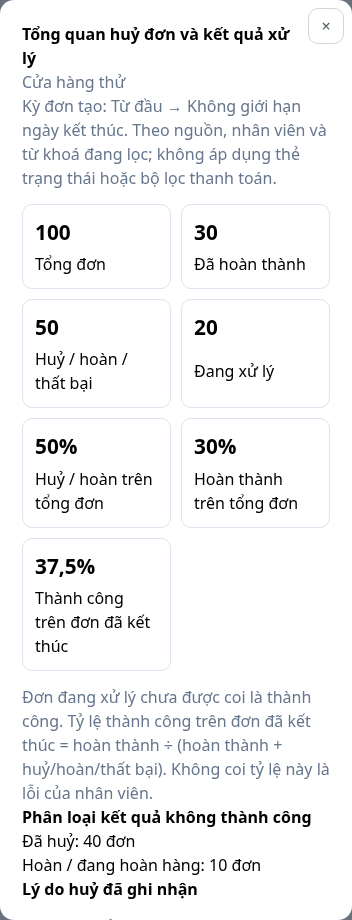
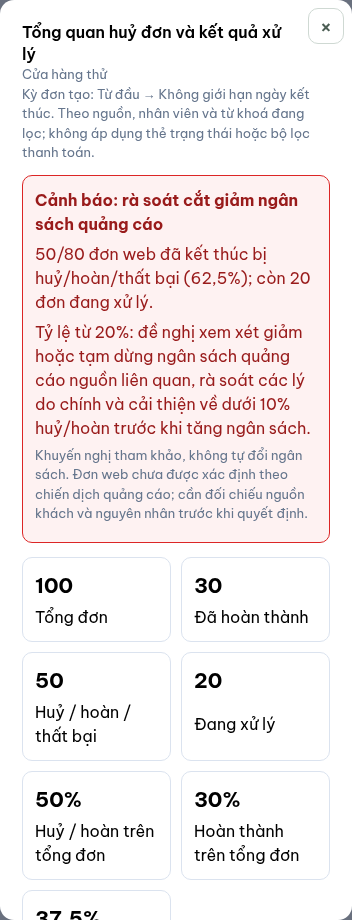
Add website ad-budget warnings, lighter task type and explicit adjustment warehouse selection

diff --git a/trial-ui/style.css b/trial-ui/style.css
@@ -2057,14 +2057,14 @@ tr.care-overdue td:first-child { box-shadow: inset 3px 0 0 var(--red); }
 #view-tasks .task-sync { font-size: var(--text-caption); } #view-tasks .task-refresh { align-self: center; width: 30px; height: 30px; }
 #view-tasks .task-top-actions { display: flex; gap: 8px; } #view-tasks .task-top-actions kbd { margin-left: 4px; background: #ffffff33; color: inherit; border-color: #ffffff66; }
 #view-tasks .task-tabs-row { display: flex; gap: 4px; border-bottom: 1px solid var(--line); margin-bottom: 14px; overflow-x: auto; scrollbar-width: none; }
-#view-tasks .task-tab { border: 0; background: none; font: inherit; font-weight: 600; color: #4b5870; padding: 10px 12px; border-bottom: 2px solid transparent; margin-bottom: -1px; cursor: pointer; white-space: nowrap; }
+#view-tasks .task-tab { border: 0; background: none; font: inherit; font-weight: 500; color: #4b5870; padding: 10px 12px; border-bottom: 2px solid transparent; margin-bottom: -1px; cursor: pointer; white-space: nowrap; }
 #view-tasks .task-tab b { display: inline-grid; place-items: center; min-width: 20px; padding: 0 6px; margin-left: 4px; border-radius: 999px; background: #eef1f6; color: #3c4a63; font-size: var(--text-caption); }
-#view-tasks .task-tab[aria-selected="true"] { color: var(--green); border-bottom-color: var(--green); } #view-tasks .task-tab[aria-selected="true"] b { background: var(--green-50); color: var(--green); }
+#view-tasks .task-tab[aria-selected="true"] { font-weight: 600; color: var(--green); border-bottom-color: var(--green); } #view-tasks .task-tab[aria-selected="true"] b { background: var(--green-50); color: var(--green); }
 #view-tasks .task-tab-approve b.tab-count { background: var(--red); color: #fff; }
 #view-tasks .task-due-cards { display: grid; grid-template-columns: repeat(4, minmax(0, 1fr)); gap: 10px; margin-bottom: 12px; }
 #view-tasks .task-due-card { position: relative; display: grid; gap: 1px; text-align: left; font: inherit; color: inherit; cursor: pointer; background: var(--surface); border: 1px solid var(--line); border-radius: 12px; padding: 10px 14px 10px 22px; box-shadow: var(--shadow); }
 #view-tasks .task-due-card::before { content: ''; position: absolute; left: 10px; top: 12px; bottom: 12px; width: 4px; border-radius: 4px; background: #c3ccd9; }
-#view-tasks .task-due-card strong { font-size: var(--text-heading); line-height: 1.1; } #view-tasks .task-due-card span { font-size: var(--text-small); color: #4b5870; } #view-tasks .task-due-card small { font-size: var(--text-caption); color: var(--muted); }
+#view-tasks .task-due-card strong { font-weight: 600; font-size: var(--text-heading); line-height: 1.1; } #view-tasks .task-due-card span { font-size: var(--text-small); color: #4b5870; } #view-tasks .task-due-card small { font-size: var(--text-caption); color: var(--muted); }
 #view-tasks .d-overdue::before { background: var(--red); } #view-tasks .d-overdue strong { color: var(--red); }
 #view-tasks .d-today::before { background: #e08a00; } #view-tasks .d-today strong { color: var(--amber); }
 #view-tasks .d-week::before { background: #3a7bd5; } #view-tasks .d-none::before { background: #c3ccd9; }
@@ -2084,26 +2084,27 @@ tr.care-overdue td:first-child { box-shadow: inset 3px 0 0 var(--red); }
 #view-tasks .task-board { background: none; border: 0; box-shadow: none; padding: 0; overflow: visible; }
 #view-tasks .task-list { display: grid; gap: 8px; }
 #view-tasks .task-group { margin-top: 8px; } #view-tasks .task-group:first-child { margin-top: 0; }
-#view-tasks .task-group-btn { display: flex; align-items: center; gap: 8px; border: 0; background: none; padding: 4px 2px; font: inherit; font-weight: 700; font-size: var(--text-label); color: var(--ink); cursor: pointer; }
+#view-tasks .task-group-btn { display: flex; align-items: center; gap: 8px; border: 0; background: none; padding: 4px 2px; font: inherit; font-weight: 500; font-size: var(--text-label); color: var(--ink); cursor: pointer; }
 #view-tasks .task-group-caret { color: var(--muted); transition: transform .12s; } #view-tasks .task-group-btn[aria-expanded="false"] .task-group-caret { transform: rotate(-90deg); }
 #view-tasks .task-group-n { background: #e4e8ef; border-radius: 10px; padding: 0 8px; font-size: var(--text-caption); color: #3c4a63; }
 #view-tasks .task-group-late { background: #fdecee; color: #b4232c; border-radius: 10px; padding: 0 8px; font-size: var(--text-caption); }
 #view-tasks .g-overdue .task-group-btn { color: var(--red); } #view-tasks .g-today .task-group-btn { color: var(--amber); }
-#view-tasks .task-row { display: grid; grid-template-columns: 34px minmax(0, 1fr) 170px 100px 104px 104px; gap: 10px; align-items: center; background: var(--surface); border: 1px solid var(--line); border-left: 4px solid transparent; border-radius: 10px; padding: 10px 12px 10px 8px; cursor: pointer; box-shadow: var(--shadow); }
+#view-tasks .task-row { font-size: var(--text-label); line-height: 1.5; display: grid; grid-template-columns: 34px minmax(0, 1fr) 170px 100px 104px 104px; gap: 10px; align-items: center; background: var(--surface); border: 1px solid var(--line); border-left: 4px solid transparent; border-radius: 10px; padding: 10px 12px 10px 8px; cursor: pointer; box-shadow: var(--shadow); }
 #view-tasks .task-row:hover { border-color: #c9d3e0; }
 #view-tasks .task-row.prio-high { border-left-color: #e08a00; } #view-tasks .task-row.prio-urgent, #view-tasks .task-row.is-late { border-left-color: var(--red); }
 #view-tasks .task-row.is-selected { border-color: var(--green); box-shadow: 0 0 0 1px var(--green); }
 #view-tasks .task-row.is-done { opacity: .7; } #view-tasks .task-row.is-done .task-title { text-decoration: line-through; color: var(--muted); }
 #view-tasks .task-check { display: grid; place-items: center; } #view-tasks .task-check input { width: 18px; height: 18px; accent-color: var(--green); cursor: pointer; }
-#view-tasks .task-title { font-weight: 650; color: var(--ink); overflow-wrap: anywhere; }
+#view-tasks .task-title { font-weight: 500; color: var(--ink); overflow-wrap: anywhere; }
 #view-tasks .task-meta { display: flex; flex-wrap: wrap; gap: 5px; margin-top: 4px; font-size: var(--text-caption); align-items: center; }
 #view-tasks .tag { display: inline-flex; align-items: center; padding: 1px 7px; border-radius: 6px; background: #f1f3f7; color: #4b5870; font-size: var(--text-caption); max-width: 100%; }
 #view-tasks .tag.dashed { background: #fff; border: 1px dashed #b9c3d1; }
 #view-tasks .tag.task-desc { max-width: 420px; overflow: hidden; text-overflow: ellipsis; white-space: nowrap; display: inline-block; }
+#view-tasks .task-people b, #view-tasks .due-date b, #view-tasks .task-meta .pill { font-weight: 500; }
 #view-tasks .task-people { display: grid; gap: 1px; line-height: 1.25; min-width: 0; } #view-tasks .task-people small { color: var(--muted); font-size: var(--text-caption); } #view-tasks .task-people .claim-btn { justify-self: start; margin-top: 4px; }
 #view-tasks .due-date { display: grid; line-height: 1.2; } #view-tasks .due-date small { font-size: var(--text-caption); color: var(--muted); }
 #view-tasks .due-date.danger b, #view-tasks .due-date.danger small { color: var(--red); } #view-tasks .due-date.warn b, #view-tasks .due-date.warn small { color: var(--amber); }
-#view-tasks .task-state { border: 1px solid var(--line-strong); background: #fff; border-radius: 8px; padding: 5px 10px; font: inherit; font-size: var(--text-small); font-weight: 600; color: #3c4a63; cursor: pointer; white-space: nowrap; }
+#view-tasks .task-state { border: 1px solid var(--line-strong); background: #fff; border-radius: 8px; padding: 5px 10px; font: inherit; font-size: var(--text-small); font-weight: 400; color: #3c4a63; cursor: pointer; white-space: nowrap; }
 #view-tasks .task-state.st-in_progress { border-color: var(--blue); color: var(--blue); background: var(--blue-50); }
 #view-tasks .pill.src.sales { background: #e9eefb; color: #1f3f8a; } #view-tasks .pill.src.stock { background: #e7f6ef; color: #0e6b4c; }
 #view-tasks .pill.src.acct { background: #f1ebfb; color: #6b3fb4; } #view-tasks .pill.src.debt { background: #fff1e0; color: #a35400; }
@@ -2135,6 +2136,7 @@ tr.care-overdue td:first-child { box-shadow: inset 3px 0 0 var(--red); }
 }
 /* Điện thoại: mỗi việc một thẻ – Việc, Hạn, Trạng thái; bấm mở chi tiết toàn màn hình. */
 @media (max-width: 700px) {
+  #view-tasks .task-title { font-size: var(--text-body); }
   #view-tasks .task-due-cards { grid-template-columns: repeat(2, minmax(0, 1fr)); gap: 8px; } #view-tasks .task-due-card { padding: 8px 10px 8px 20px; } #view-tasks .task-due-card small { display: none; }
   #view-tasks .task-filterbar select { flex: 1 1 45%; } #view-tasks .task-filterbar .search-box { flex-basis: 100%; } #view-tasks .task-seg { flex: 1 1 100%; } #view-tasks .task-seg button { flex: 1; }
   #view-tasks .task-row { grid-template-columns: 28px minmax(0, 1fr) auto; grid-template-areas: "c m m" "c d s"; row-gap: 6px; }
@@ -2206,6 +2208,9 @@ a.is-opening::after, tr.is-opening > td:last-child::after, li.is-opening::after,
 .ledger-table th.num, .ledger-table td.num { text-align: right; white-space: nowrap; font-variant-numeric: tabular-nums; }
 .ledger-table td { padding: 8px 12px; vertical-align: top; }
 .ledger-table td.nowrap { white-space: nowrap; }
+.ledger-table .ledger-in { color: var(--green); }
+.ledger-table .ledger-out { color: var(--red); }
+.ledger-table .ledger-balance { color: #0369a1; }
 .ledger-total td { background: var(--surface-2); font-weight: 700; }
 .ledger-ref a, .ledger-item a { font-weight: 600; }
 .ledger-ref, .ledger-item { min-width: 190px; }

diff --git a/trial-ui/pos.js b/trial-ui/pos.js
@@ -516,6 +516,17 @@ export function initPos({ api, root, toast, user, confirmBox, go, onCloseShift, 
     st.orderRegisterId = d.registerId;
     renderOrderBoard();
   }
+  function advertisingNotice(risk) {
+    if(!risk)return null;
+    const box=el('section','pos-ad-risk '+risk.level),high=['budget','improve'].includes(risk.level);
+    box.setAttribute('role',high?'alert':'status');
+    const rate=risk.rate==null?'—':new Intl.NumberFormat('vi-VN',{maximumFractionDigits:2}).format(risk.rate)+'%';
+    const title=risk.level==='budget'?'Cảnh báo: rà soát cắt giảm ngân sách quảng cáo':risk.level==='improve'?'Cần cải thiện tỷ lệ đơn web':risk.level==='insufficient'?'Chưa đủ mẫu để đánh giá quảng cáo':'Tỷ lệ huỷ / hoàn đơn web dưới ngưỡng cảnh báo';
+    box.append(el('strong','',title),el('p','',`${risk.unsuccessful}/${risk.ended} đơn web đã kết thúc bị huỷ/hoàn/thất bại (${rate}); còn ${risk.pending} đơn đang xử lý.`));
+    const advice=risk.level==='budget'?'Tỷ lệ từ 20%: đề nghị xem xét giảm hoặc tạm dừng ngân sách quảng cáo nguồn liên quan, rà soát các lý do chính và cải thiện về dưới 10% huỷ/hoàn trước khi tăng ngân sách.':risk.level==='improve'?'Tỷ lệ từ 10%: yêu cầu rà soát lý do huỷ, chất lượng khách và khâu xử lý/giao hàng để đưa tỷ lệ huỷ/hoàn về dưới 10%.':risk.level==='insufficient'?'Cần ít nhất 30 đơn web đã kết thúc trong kỳ mới áp ngưỡng cảnh báo.':'Tiếp tục theo dõi; ngưỡng cần cải thiện là 10%, ngưỡng rà soát ngân sách là 20% khi có ít nhất 30 đơn web đã kết thúc.';
+    box.append(el('p','',advice),el('p','pos-note','Khuyến nghị tham khảo, không tự đổi ngân sách. Đơn web chưa được xác định theo chiến dịch quảng cáo; cần đối chiếu nguồn khách và nguyên nhân trước khi quyết định.'));
+    return box;
+  }
   function showCancellationAnalytics(d) {
     const a = d.analytics;
     if (!a) return;
@@ -538,6 +549,7 @@ export function initPos({ api, root, toast, user, confirmBox, go, onCloseShift, 
       item.append(el('strong', '', value), el('span', '', label));
       grid.append(item);
     }
+    const adRisk=advertisingNotice(a.advertising);if(adRisk)m.body.append(adRisk);
     m.body.append(grid, el('p', 'pos-note', 'Đơn đang xử lý chưa được coi là thành công. Tỷ lệ thành công trên đơn đã kết thúc = hoàn thành ÷ (hoàn thành + huỷ/hoàn/thất bại). Không coi tỷ lệ này là lỗi của nhân viên.'));
     const kindNames = { cancelled: 'Đã huỷ', returned: 'Hoàn / đang hoàn hàng', refunded: 'Đã hoàn tiền', failed: 'Thất bại / mất / hỏng hàng' };
     m.body.append(el('h3', '', 'Phân loại kết quả không thành công'));
@@ -555,7 +567,7 @@ export function initPos({ api, root, toast, user, confirmBox, go, onCloseShift, 
     const wrap = el('div', 'table-wrap'); wrap.append(table); m.body.append(wrap);
     if (!a.unsuccessful) m.body.append(el('p', 'pos-note', 'Chưa có đơn huỷ / hoàn trong kỳ này.'));
     m.body.append(el('p', 'pos-note', `${a.missingReasons} đơn chưa ghi nhận lý do. Lý do đơn web lấy từ nhật ký huỷ tại CRM nếu có. Trạng thái website/GHN không tự suy ra lý do. Đơn web chưa gắn nhân viên bán.`));
-    m.body.append(el('h3', '', 'Ngưỡng cảnh báo tham khảo'), el('p', 'pos-note', 'Chỉ xem xét khi có ít nhất 30 đơn đã kết thúc trong kỳ: tỷ lệ huỷ/hoàn trên đơn đã kết thúc từ 10% cần rà soát, từ 20% cảnh báo cao. Đây là ngưỡng thử nghiệm, chưa phải quy định phạt; phải đối chiếu nguồn đơn, khách hàng, hàng hoá và vận chuyển trước khi quy trách nhiệm.'));
+    m.body.append(el('h3', '', 'Ngưỡng cảnh báo tham khảo'), el('p', 'pos-note', 'Chỉ xem xét quảng cáo khi có ít nhất 30 đơn web đã kết thúc trong kỳ: tỷ lệ huỷ/hoàn trên đơn web đã kết thúc từ 10% cần cải thiện, từ 20% cảnh báo rà soát ngân sách. Đây là ngưỡng thử nghiệm, chưa phải quy định phạt; phải đối chiếu nguồn đơn, khách hàng, hàng hoá và vận chuyển trước khi quy trách nhiệm.'));
     m.show();
   }
   function renderOrderBoard() {
@@ -616,8 +628,9 @@ export function initPos({ api, root, toast, user, confirmBox, go, onCloseShift, 
       if (alert) b.setAttribute('aria-label', `Đơn web: ${n} đơn cần xử lý`);
       cards.append(b);
     }
-    if(d.analytics){const a=d.analytics,pct=a.unsuccessfulRate==null?'—':new Intl.NumberFormat('vi-VN',{maximumFractionDigits:1}).format(a.unsuccessfulRate)+'%';const report=button('','pos-order-count pos-cancellation-report',()=>showCancellationAnalytics(d));report.setAttribute('aria-label','Xem tỷ lệ huỷ đơn và lý do');report.append(el('strong','',pct),el('span','','Tỷ lệ huỷ / hoàn'));cards.append(report);}
+    if(d.analytics){const a=d.analytics,pct=a.successRate==null?'—':new Intl.NumberFormat('vi-VN',{maximumFractionDigits:1}).format(a.successRate)+'%';const report=button('','pos-order-count pos-cancellation-report',()=>showCancellationAnalytics(d));report.setAttribute('aria-label','Xem tỷ lệ hoàn thành và lý do huỷ đơn');report.append(el('strong','',pct),el('span','','Tỷ lệ hoàn thành'));cards.append(report);}
     box.append(cards);
+    const adRisk=advertisingNotice(d.analytics?.advertising);if(adRisk)box.append(adRisk);
     const search = el('input', 'pos-order-search');
     search.type = 'search'; search.placeholder = 'Tìm số đơn, khách hàng, điện thoại, nhân viên…'; search.value = st.orderQuery;
     search.setAttribute('aria-label', 'Tìm đơn hàng cửa hàng');

diff --git a/tests/app/pos-ui.test.ts b/tests/app/pos-ui.test.ts
@@ -1,5 +1,5 @@
 import { test } from 'node:test';
-import {cancellationAnalytics} from '../../src/modules/sales/domain/pos-order-board.ts';
+import {cancellationAnalytics,advertisingCancellationRisk} from '../../src/modules/sales/domain/pos-order-board.ts';
 import assert from 'node:assert/strict';
 import { readFileSync } from 'node:fs';
 // @ts-ignore browser module uses injected DOM only while rendering
@@ -924,7 +924,7 @@ test('POS order board sends source/staff/date/payment filters, renders server to
     const api=async(path:string)=>{
       if(path.startsWith('/pos/options')) return {registers:[{id:'r',name:'Quầy',pricePolicyId:'vat'}],current:null,shifts:[],templates:[],policies:[]};
       if(path.startsWith('/pos/catalog')) return {products:[],nextOffset:null};
-      if(path.startsWith('/pos/orders')) {calls.push(path);return {registerId:'r',registers:[],analytics:cancellationAnalytics([{bucket:'completed'},{bucket:'pending'},{bucket:'cancelled',cancelReason:'<img src=x onerror=alert(1)>'}]),counts:{all:3},orders:[],owners:[{id:'emp',name:'Nhân viên A'}],totals:[{currency:'VND',revenue:123456,paid:100000,outstanding:23456,orders:3,unknownPayment:0}]};}
+      if(path.startsWith('/pos/orders')) {calls.push(path);return {registerId:'r',registers:[],analytics:{...cancellationAnalytics([{bucket:'completed'},{bucket:'pending'},{bucket:'cancelled',cancelReason:'<img src=x onerror=alert(1)>'}]),advertising:advertisingCancellationRisk([{orderSource:'web',bucket:'completed'}])},counts:{all:3},orders:[],owners:[{id:'emp',name:'Nhân viên A'}],totals:[{currency:'VND',revenue:123456,paid:100000,outstanding:23456,orders:3,unknownPayment:0}]};}
       throw Error(path);
     };
     const ui=initPos({root,api,toast(){},user:()=>({id:'emp',name:'NV'}),confirmBox:async()=>true,go(){}});
@@ -938,8 +938,8 @@ test('POS order board sends source/staff/date/payment filters, renders server to
     }
     const q=new URLSearchParams(calls.at(-1)!.split('?')[1]);
     assert.equal(q.get('source'),'cod');assert.equal(q.get('ownerId'),'emp');assert.equal(q.get('from'),'2026-10-01');assert.equal(q.get('to'),'2026-10-21');assert.equal(q.get('payment'),'debt');
-    const before=calls.length;await root.querySelectorAll('button').find(e=>e.attributes['aria-label']==='Xem tỷ lệ huỷ đơn và lý do')!.fire('click');
-    const modal=doc.body.children.at(-1)!;assert.equal(modal.open,true);assert.match(modal.textContent,/33,3%/);assert.match(modal.textContent,/50%/);assert.match(modal.textContent,/<img src=x onerror=alert\(1\)>/);assert.equal(modal.querySelectorAll('img').length,0);assert.match(modal.textContent,/không áp dụng thẻ trạng thái hoặc bộ lọc thanh toán/);assert.equal(calls.length,before,'report opens from the same confirmed data without another request');
+    const before=calls.length;await root.querySelectorAll('button').find(e=>e.attributes['aria-label']==='Xem tỷ lệ hoàn thành và lý do huỷ đơn')!.fire('click');
+    const modal=doc.body.children.at(-1)!;assert.equal(modal.open,true);assert.match(modal.textContent,/Cần ít nhất 30 đơn web/);assert.match(modal.textContent,/33,3%/);assert.match(modal.textContent,/50%/);assert.match(modal.textContent,/<img src=x onerror=alert\(1\)>/);assert.equal(modal.querySelectorAll('img').length,0);assert.match(modal.textContent,/không áp dụng thẻ trạng thái hoặc bộ lọc thanh toán/);assert.equal(calls.length,before,'report opens from the same confirmed data without another request');
     await root.querySelectorAll('button').find(e=>e.textContent==='Xóa bộ lọc')!.fire('click');
     await new Promise(r=>setTimeout(r,0));
     const reset=new URLSearchParams(calls.at(-1)!.split('?')[1]);

diff --git a/tests/app/pos-order-board.test.ts b/tests/app/pos-order-board.test.ts
@@ -5,7 +5,7 @@ import { setup } from '../helpers/pos-fixture.ts';
 import {auditLogs} from '../../src/core/db/schema.ts';
 import {webStoreOrders} from '../../src/modules/sales/pos-schema.ts';
 import { customerPayments, salesOrders } from '../../src/modules/sales/schema.ts';
-import { filterPosOrderBoard, cancellationAnalytics } from '../../src/modules/sales/domain/pos-order-board.ts';
+import { filterPosOrderBoard, cancellationAnalytics, advertisingCancellationRisk } from '../../src/modules/sales/domain/pos-order-board.ts';
 
 test('board totals apply every filter, omit cancellations, and keep currencies separate', () => {
   const row = { id:'a', orderNo:'POS_A', customerName:'Nguyễn An', phone:'09', ownerId:'emp', ownerName:'Nhân viên', sapoOrderCode:null, orderDate:'2026-10-21', bucket:'completed', orderSource:'pos', paymentStatus:'paid', total:100, paid:100, outstanding:0, currency:'VND' };
@@ -87,4 +87,16 @@ test('cancellation metrics use all cohort rows before status/payment/pagination,
  const scope=filterPosOrderBoard([...rows,{...base,id:'older',orderDate:'2026-09-01',bucket:'pending'}],new URLSearchParams(),{analyticsFrom:'2026-10-01'});assert.equal(scope.counts.all,101);assert.equal(scope.analytics.total,100,'old open orders do not dilute the default analytics period');
  assert.equal(filterPosOrderBoard(rows,new URLSearchParams('ownerId=other')).analytics.total,0);assert.equal(cancellationAnalytics([]).unsuccessfulRate,null);assert.equal(cancellationAnalytics([{bucket:'pending'}]).closedSuccessRate,null);
  const split=cancellationAnalytics([{bucket:'cancelled',cancellationKind:'returned'},{bucket:'cancelled',cancellationKind:'refunded'}]);assert.deepEqual(split.kinds,[{kind:'returned',count:1},{kind:'refunded',count:1}]);assert.equal(split.missingReasons,2);
+});
+
+
+test('ad budget warning uses website ended orders only, requires 30 outcomes and has exact 10/20 percent boundaries',()=>{
+ const rows=(ended:number,bad:number,pending=0)=>Array.from({length:ended+pending},(_,i)=>({orderSource:'web',bucket:i<bad?'cancelled':i<ended?'completed':'pending'}));
+ assert.equal(advertisingCancellationRisk(rows(29,29)).level,'insufficient');
+ assert.equal(advertisingCancellationRisk(rows(30,6)).level,'budget');
+ assert.equal(advertisingCancellationRisk(rows(30,3)).level,'improve');
+ assert.equal(advertisingCancellationRisk(rows(30,2)).level,'normal');
+ const pending=advertisingCancellationRisk(rows(30,6,70));assert.equal(pending.rate,20);assert.equal(pending.pending,70);assert.equal(pending.total,100);
+ assert.equal(advertisingCancellationRisk(rows(10000,1996)).level,'improve','do not compare a rounded percentage to the threshold');
+ const mixed=advertisingCancellationRisk([...rows(30,0),...Array.from({length:100},()=>({orderSource:'pos',bucket:'cancelled'}))]);assert.equal(mixed.level,'normal');assert.equal(mixed.total,30);assert.equal(advertisingCancellationRisk([]).rate,null);
 });

diff --git a/trial-ui/stock-ops.js b/trial-ui/stock-ops.js
@@ -281,7 +281,7 @@ const STATUSES = [['', 'Mọi trạng thái'], ['active', 'Đang giao dịch'], 
 const day = iso => iso ? new Date(iso).toLocaleDateString('vi-VN', { day: '2-digit', month: '2-digit', year: 'numeric' }) : '';
 const time = iso => iso ? new Date(iso).toLocaleTimeString('vi-VN', { hour: '2-digit', minute: '2-digit' }) : '';
 const isoDay = d => new Date(d.getTime() - d.getTimezoneOffset() * 60000).toISOString().slice(0, 10);
-const dash = v => v ? num(v) : '-';
+const movementQty = (v, sign, zero = '—') => v ? sign + num(Math.abs(v)) : zero;
 /** Nhãn ô khi bảng thành thẻ trên điện thoại (style.css: td[data-label]::before). */
 const labeled = (td, label) => { td.dataset.label = label; return td; };
 /** Bộ lọc trang Sổ kho ↔ query của link (#/stock-moves?q=…&warehouseId=…&from=…&to=…&group=…&brand=…&status=…): link mở đúng bộ lọc. */
@@ -373,12 +373,12 @@ export function initStockMoves({ api, root, toast, createPager, linkAllowed = ()
     renderChips();
     rows = d.moves; pager.render(d.total);
     const total = el('tr', 'ledger-total'), lbl = el('td', '', `Tổng ${num(d.total)} giao dịch`); lbl.colSpan = 4;
-    total.append(lbl, labeled(el('td', 'num', num(d.totals.inQty)), 'Nhập'), labeled(el('td', 'num', num(d.totals.outQty)), 'Xuất'), el('td', 'ledger-empty'), el('td', 'ledger-empty'));
+    total.append(lbl, labeled(el('td', 'num ledger-in', movementQty(d.totals.inQty, '+', '0')), 'Nhập'), labeled(el('td', 'num ledger-out', movementQty(d.totals.outQty, '−', '0')), 'Xuất'), el('td', 'ledger-empty'), el('td', 'ledger-empty'));
     if (!rows.length) { const tr = el('tr'), td = el('td', 'muted', 'Không có giao dịch nào khớp bộ lọc.'); td.colSpan = 8; tr.append(td); tbody.replaceChildren(total, tr); return; }
     tbody.replaceChildren(total, ...rows.map((m, i) => {
       const tr = el('tr'), when = el('td', 'nowrap'); when.append(document.createTextNode(day(m.at)), el('small', '', time(m.at)));
-      tr.append(el('td', 'num muted ledger-no', pager.offset + i + 1), when, refCell(m), itemCell(m), labeled(el('td', 'num', dash(m.inQty)), 'Nhập'), labeled(el('td', 'num', dash(m.outQty)), 'Xuất'),
-        labeled(el('td', 'num' + (m.balanceAfter < 0 ? ' danger-text' : ''), num(m.balanceAfter)), 'Tồn sau'), labeled(el('td', 'ledger-wh', m.warehouse), 'Chi nhánh'));
+      tr.append(el('td', 'num muted ledger-no', pager.offset + i + 1), when, refCell(m), itemCell(m), labeled(el('td', 'num' + (m.inQty ? ' ledger-in' : ''), movementQty(m.inQty, '+')), 'Nhập'), labeled(el('td', 'num' + (m.outQty ? ' ledger-out' : ''), movementQty(m.outQty, '−')), 'Xuất'),
+        labeled(el('td', 'num ledger-balance', num(m.balanceAfter)), 'Tồn sau'), labeled(el('td', 'ledger-wh', m.warehouse), 'Chi nhánh'));
       return tr;
     }));
   }

diff --git a/src/modules/sales/domain/pos-order-board.ts b/src/modules/sales/domain/pos-order-board.ts
@@ -23,7 +23,8 @@ export function filterPosOrderBoard<T extends BoardOrder>(rows: T[], params: URL
     (!from || o.orderDate >= from) && (!to || o.orderDate <= to) &&
     (!q || [o.orderNo, o.customerName, o.phone, o.ownerName, o.sapoOrderCode].some(v => fold(v || '').includes(q))));
   const filtered = cohort.filter(o=>payment==='all'||o.bucket!=='cancelled'&&o.paymentStatus===payment);
-  const analytics = cancellationAnalytics(cohort.filter(o=>!options.analyticsFrom||o.orderDate>=options.analyticsFrom));
+  const analyticsRows=cohort.filter(o=>!options.analyticsFrom||o.orderDate>=options.analyticsFrom);
+  const analytics={...cancellationAnalytics(analyticsRows),advertising:advertisingCancellationRisk(analyticsRows)};
   const webOpen = (o: BoardOrder) => o.orderSource === 'web' && o.bucket !== 'completed' && o.bucket !== 'cancelled';
   const counts = { all: filtered.length, web: filtered.filter(webOpen).length, pending: 0, packing: 0, waiting_delivery: 0, completed: 0, cancelled: 0 };
   for (const o of filtered) if (o.bucket in counts && o.bucket !== 'all' && o.bucket !== 'web') counts[o.bucket as keyof typeof counts]++;
@@ -54,4 +55,14 @@ export function cancellationAnalytics(rows: Pick<BoardOrder,'bucket'|'cancelReas
     unsuccessfulRate:percent(unsuccessful.length,total),successRate:percent(completed,total),closedSuccessRate:percent(completed,ended),closedUnsuccessfulRate:percent(unsuccessful.length,ended),
     reasons:[...reasons.values()].sort((a,b)=>b.count-a.count||a.reason.localeCompare(b.reason,'vi')),
     kinds:[...kinds].map(([kind,count])=>({kind,count}))};
+}
+
+
+/** Website orders are a review signal, not proof of paid-ad attribution or employee fault. */
+export function advertisingCancellationRisk(rows: Pick<BoardOrder,'bucket'|'orderSource'>[]) {
+  const web=rows.filter(o=>o.orderSource==='web'),completed=web.filter(o=>o.bucket==='completed').length,
+    unsuccessful=web.filter(o=>o.bucket==='cancelled').length,ended=completed+unsuccessful;
+  const level=ended<30?'insufficient':unsuccessful*100>=ended*20?'budget':unsuccessful*100>=ended*10?'improve':'normal';
+  return {total:web.length,completed,unsuccessful,ended,pending:web.length-ended,
+    rate:ended?Math.round(unsuccessful/ended*10000)/100:null,level,minEnded:30,improveAt:10,reviewBudgetAt:20};
 }

diff --git a/trial-ui/inventory.js b/trial-ui/inventory.js
@@ -193,9 +193,10 @@ export function initInventory({ api, root, toast, confirmBox }) {
     const back = btn('‹ Danh sách phiếu', 'btn ghost small', () => { if (busy) return; editing = false; editor.replaceChildren(); updatePage(); });
     const top = el('div', 'card-title-row'); top.append(el('h2', 'card-title', 'Lập phiếu cân bằng kho'), back);
     const f = el('form', 'sup-form inv-adjust-form'), err = el('p', 'error');
-    const w = el('select'); w.required = true;
+    const w = el('select'); w.required = true;w.setAttribute('aria-label','Kho cân bằng');
+    w.append(Object.assign(el('option','','Chọn kho…'),{value:''}));
     for (const x of status.warehouses) w.append(Object.assign(el('option', '', x.name), { value: x.id }));
-    if (prefill.warehouseId) w.value = prefill.warehouseId; else if (wh.value) w.value = wh.value;
+    w.value = ''; // Every new sheet needs an explicit warehouse choice, including from a stock card.
     const reason = input('text', '', { maxLength: 500, required: true, placeholder: 'VD: kiểm kê lệch, hàng vỡ, xuất mẫu…' });
     const g = el('div', 'form-grid two'); g.append(field('Kho', w), field('Lý do *', reason));
     const list = el('div', 'inv-adjust-lines');
@@ -212,6 +213,7 @@ export function initInventory({ api, root, toast, confirmBox }) {
     const foot = el('div', 'row-gap inv-adjust-foot'); foot.append(ok, btn('Huỷ', 'btn secondary', () => back.click())); f.append(foot);
     f.addEventListener('submit', async e => {
       e.preventDefault(); err.textContent = '';
+      if(!uncertain&&!status.warehouses.some(x=>x.id===w.value)){err.textContent='Chọn kho trước khi ghi phiếu cân bằng.';w.focus();return;}
       const lines = [...list.children].map(r => { const [s, q] = r.querySelectorAll('input'); return { sku: s.value.trim(), qty: Number(q.value) }; }).filter(l => l.sku && l.qty);
       if(ok.disabled)return;ok.disabled = true;busy=true;
       const body=uncertain||{ warehouseId: w.value, reason: reason.value.trim(), lines,clientKey };

diff --git a/trial-ui/pos.css b/trial-ui/pos.css
@@ -1277,3 +1277,8 @@ body:has(#view-pos:not([hidden]) .pos-show-menu) .sidebar {
 
 .pos-cancellation-modal h2 {padding-right:32px;overflow-wrap:anywhere;}
 .pos-cancellation-modal .data-table td:first-child {white-space:normal;overflow-wrap:anywhere;}
+
+.pos-ad-risk {padding:12px;border:1px solid #cbd5e1;border-radius:10px;margin:12px 0;background:#f8fafc;}
+.pos-ad-risk.improve {border-color:#d97706;background:#fffbeb;color:#78350f;}
+.pos-ad-risk.budget {border-color:#dc2626;background:#fef2f2;color:#991b1b;}
+.pos-ad-risk p {margin:6px 0;overflow-wrap:anywhere;}

diff --git a/docs/testing/retail-order-guards/README.md b/docs/testing/retail-order-guards/README.md
@@ -10,7 +10,7 @@ Nút Huỷ phiếu dùng `confirmBox` chung với số phiếu cụ thể, `dang
 
 ## 3. Tỷ lệ huỷ / hoàn ở bảng đơn POS
 
-Thêm thẻ **Tỷ lệ huỷ / hoàn**, bấm mở tổng quan ngay từ dữ liệu API đã tải. Thẻ Đơn web hiện có vẫn lọc các đơn website cần xử lý.
+Thêm thẻ **Tỷ lệ hoàn thành**, bấm mở tổng quan ngay từ dữ liệu API đã tải. Thẻ Đơn web hiện có vẫn lọc các đơn website cần xử lý.
 
 - Phạm vi: cửa hàng, nguồn, nhân viên, khoảng ngày đặt và từ khoá. Không dùng thẻ trạng thái hoặc bộ lọc thanh toán làm mẫu số, vì lọc đã thanh toán vốn loại các đơn đã huỷ. Ghi rõ phạm vi này trong popup.
 - Khi chưa chọn khoảng ngày, analytics lấy đơn có ngày đặt từ `windowFrom` của API (mốc 30 ngày gần nhất). Những đơn còn đang xử lý từ trước mốc đó vẫn xuất hiện trong bảng vận hành như trước, nhưng không làm loãng tỷ lệ trong kỳ.
@@ -21,20 +21,39 @@ Thêm thẻ **Tỷ lệ huỷ / hoàn**, bấm mở tổng quan ngay từ dữ l
 - Lý do POS lấy từ snapshot huỷ. Đơn web lấy lý do mới nhất của thao tác `web-order-cancel` trong audit CRM; truy vấn một lô theo ID đơn thuộc cửa hàng được phép, dùng chỉ mục audit theo entity sẵn có, không query từng đơn. Không trả snapshot POS/audit nguyên khối cho trình duyệt. Không có bằng chứng lý do thì ghi Chưa ghi nhận lý do, không tự đoán từ trạng thái GHN.
 - Lý do được gom theo nội dung (bỏ khoảng trắng thừa, không phân biệt hoa/thường), có số đơn và tỷ trọng trong nhóm không thành công. Nội dung server chỉ đưa vào `textContent`.
 
-### Đề xuất quản trị, chưa phải quy định phạt
+### Cảnh báo quảng cáo theo đơn web
 
-Thử cảnh báo khi có ít nhất **30 đơn đã kết thúc** trong kỳ: từ **10%** huỷ/hoàn cần rà soát; từ **20%** cảnh báo cao. Các mốc này chỉ là đề xuất thử nghiệm, chưa được hiệu chỉnh theo dữ liệu lịch sử từng nguồn/cửa hàng. Không tự gán lỗi hoặc ghi phạt nhân viên. Đơn web hiện chưa có người bán gắn trên đơn, nên không quy trách nhiệm nhân viên từ tỷ lệ tổng.
+Tính riêng đơn website trong cùng tập lọc; loại đơn POS/quầy khỏi mẫu số đánh giá quảng cáo. Cần ít nhất **30 đơn web đã kết thúc**. Tỷ lệ cảnh báo = đơn web huỷ/hoàn/thất bại ÷ (đơn web hoàn thành + huỷ/hoàn/thất bại). Đơn đang chờ xử lý được hiện số lượng riêng, không coi là thành công hay dùng để làm loãng tỷ lệ.
 
-Trước khi quyết định trách nhiệm cần tách lỗi khách, thiếu hàng, đơn trùng/thử, vận chuyển và lỗi thao tác có bằng chứng; so với mặt bằng cùng nguồn và kỳ có đủ thời gian giao. Không dùng phạt tiền/cắt lương thay xử lý kỷ luật lao động (Điều 127 Bộ luật Lao động 2019). PR không đụng lương/thưởng/kỷ luật.
+- Dưới 30 đơn kết thúc: chưa đủ mẫu, không cảnh báo cắt ngân sách.
+- Dưới 10%: theo dõi.
+- Từ 10% đến dưới 20%: cảnh báo cần rà soát nguyên nhân, chất lượng khách và xử lý/giao hàng; mục tiêu về dưới 10% huỷ/hoàn.
+- Từ 20%: cảnh báo đỏ đề nghị xem xét giảm/tạm dừng ngân sách quảng cáo nguồn liên quan và cải thiện về dưới 10% trước khi tăng ngân sách.
+
+Ngưỡng so bằng số đếm gốc, không dùng tỷ lệ làm tròn để quyết định. Cảnh báo hiển thị ngay ở bảng đơn và trong popup, không thêm HTTP hay query CSDL. Đây là các mốc thử nghiệm, chưa phải chuẩn đánh giá ngành hoặc khẳng định quảng cáo có lỗi. CRM chưa có dữ liệu chi phí/chiến dịch hay nguồn khách trả phí, nên cần đối chiếu trước khi quyết định. **Không tự đổi ngân sách, phạt hoặc trừ lương**; không gán lỗi nhân viên. Đơn web chưa có người bán gắn trên đơn.
+
+## 4. Chữ trang Công việc
+
+Trang vốn dùng cùng Be Vietnam Pro với CRM; cảm giác khác chủ yếu do tiêu đề việc ở weight 650 (các file font hiện có là 400/500/600/700) và nhiều chữ đậm cùng xuất hiện. Chuyển tên việc/người nhận/ngày hạn/nhóm sang 500, trạng thái 400, giữ nhấn thẻ/tab đang chọn ở 600. Chữ dòng việc desktop dùng token 14px như bảng CRM; tên việc mobile giữ 16px. CSS chỉ giới hạn trong `#view-tasks`, giữ màu hạn/ưu tiên, bố cục và chức năng.
+
+## 5. Kho trong phiếu cân bằng mới
+
+Mọi lần mở form mới đều có option rỗng Chọn kho… (kể cả mở từ thẻ kho). Không kế thừa kho lọc, kho đầu danh sách hoặc kho của phiếu trước. HTML `required` và kiểm tra trong submit cùng chặn gửi nếu chưa chọn kho hợp lệ. Lần gửi chưa rõ kết quả vẫn giữ payload cũ để thử lại; không cấp lại mã hoặc đổi kho khi replay.
+
+## 6. Dấu và màu Sổ kho
+
+Nhập kho hiện + và xanh lá; xuất kho hiện − và đỏ; tồn sau hiện xanh lơ đậm đủ tương phản. Dòng tổng dùng cùng cách hiển thị; ô không phát sinh vẫn là dấu gạch trung tính, tổng 0 vẫn là 0. Không đổi số backend hoặc số liệu trong file xuất. Tồn âm vẫn giữ dấu âm theo số thật.
 
 ## Kiểm chứng
 
 - Typecheck và `git diff --check`.
 - 67 test liên quan UI POS, phân bổ, sinh đơn, chống bấm trùng/giữ revision, bộ lọc và quyền điều chuyển.
-- 4 test board/domain/API: hơn 500 đơn vẫn tính đủ trước phân trang; source/cửa hàng/nhân viên/ngày; không bị lọc thanh toán/trạng thái bóp méo; đơn đang xử lý; mẫu số 0; lý do POS; lý do audit web mới nhất; trạng thái hoàn/thất bại và lý do còn thiếu.
-- Chromium 1280px/390px với module UI và `confirmBox` thật, dữ liệu giả: hàng bị ẩn trước khi chọn/được xoá khi bỏ kho, đổi kho có tồn đúng; xác nhận bị khoá đủ 3 giây; bỏ huỷ 0 ghi; xác nhận 1 ghi đúng ID/revision; báo cáo hiển thị 100/50/30/20, 50%, 37,5%; không lỗi JS. Chặn mọi origin ngoài localhost.
+- 5 test board/domain/API: hơn 500 đơn vẫn tính đủ trước phân trang; source/cửa hàng/nhân viên/ngày; không bị lọc thanh toán/trạng thái bóp méo; đơn đang xử lý; mẫu số 0; lý do POS; lý do audit web mới nhất; trạng thái hoàn/thất bại và lý do còn thiếu.
+- Chromium 1280px/390px với module UI và `confirmBox` thật, dữ liệu giả: hàng bị ẩn trước khi chọn/được xoá khi bỏ kho, đổi kho có tồn đúng; xác nhận bị khoá đủ 3 giây; bỏ huỷ 0 ghi; xác nhận 1 ghi đúng ID/revision; báo cáo hiển thị 100/50/30/20, 50%, 37,5%; không lỗi JS. Bổ sung cảnh báo ngân sách, font Công việc weight 500 cùng Be Vietnam Pro, form cân bằng để trống kho/không gửi khi trống/ghi đúng kho đã chọn/mở phiếu tiếp lại trống, và dấu/màu Sổ kho. Chặn mọi origin ngoài localhost.
 - Browser script: `PLAYWRIGHT_MODULE=<module Playwright> node scripts/testing/warehouse-and-transfer-guards.mjs`; cần Chromium ở `/usr/bin/chromium`. Test dữ liệu WASM dùng `node --import tsx --test --test-isolation=none --test-reporter=spec ...` trong môi trường có giới hạn native worker.
 
-[Browser results](results.json) · [Chưa chọn kho](before-390.png) · [Xác nhận huỷ](confirm-390.png) · [Báo cáo trên mobile](analytics-390.png).
+[Browser results](results.json) · [Chưa chọn kho](before-390.png) · [Xác nhận huỷ](confirm-390.png) · [Báo cáo trên mobile](analytics-390.png) · [Chữ Công việc trước](tasks-before-1280.png) / [sau](tasks-after-1280.png) · [Chọn kho cân bằng](inventory-empty-390.png) · [Dấu/màu Sổ kho](ledger-390.png).
 
 Không migration; không truy vấn/chỉnh dữ liệu production; không merge/deploy; không thay đồng bộ GHN/Sapo hoặc cron.
+
+Bổ sung sau phản hồi: nhóm 55 test POS/analytics/task-cache/cards/điều chuyển đạt; browser kiểm cả 1280px và 390px. Script dùng CSS tại commit b7303b8 làm mốc ảnh trước, cần checkout có lịch sử commit này.
